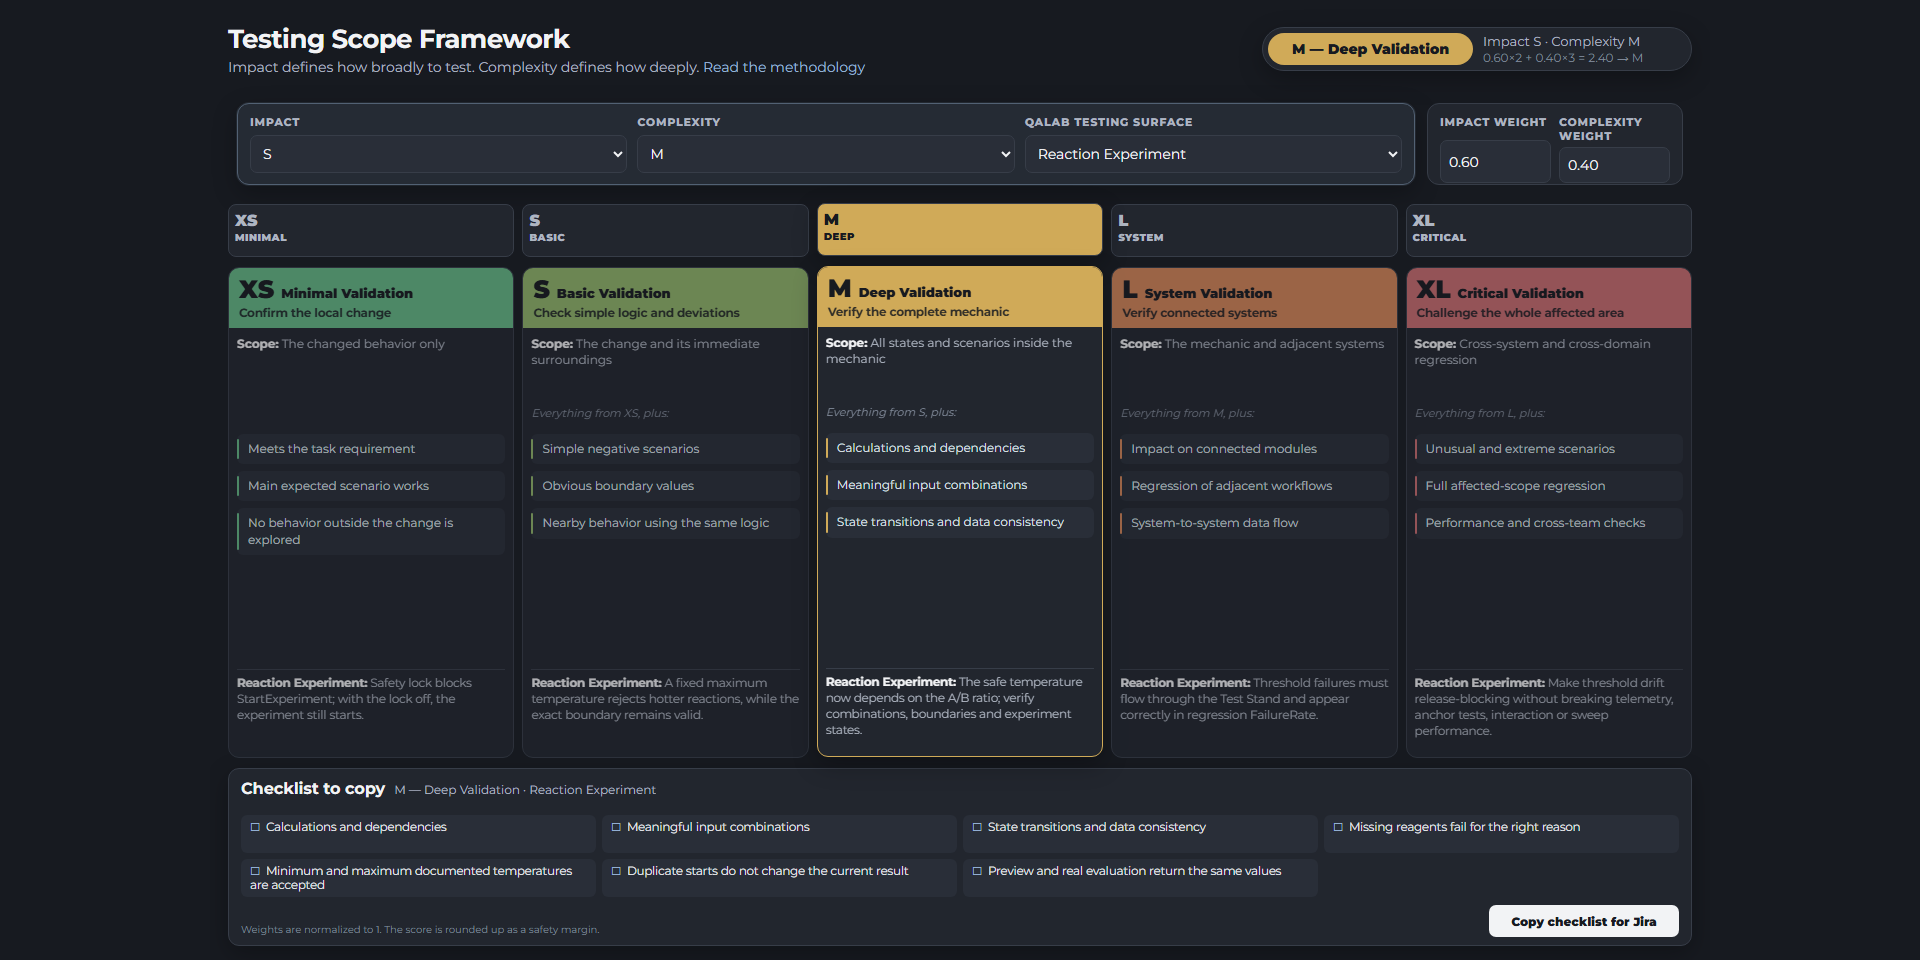
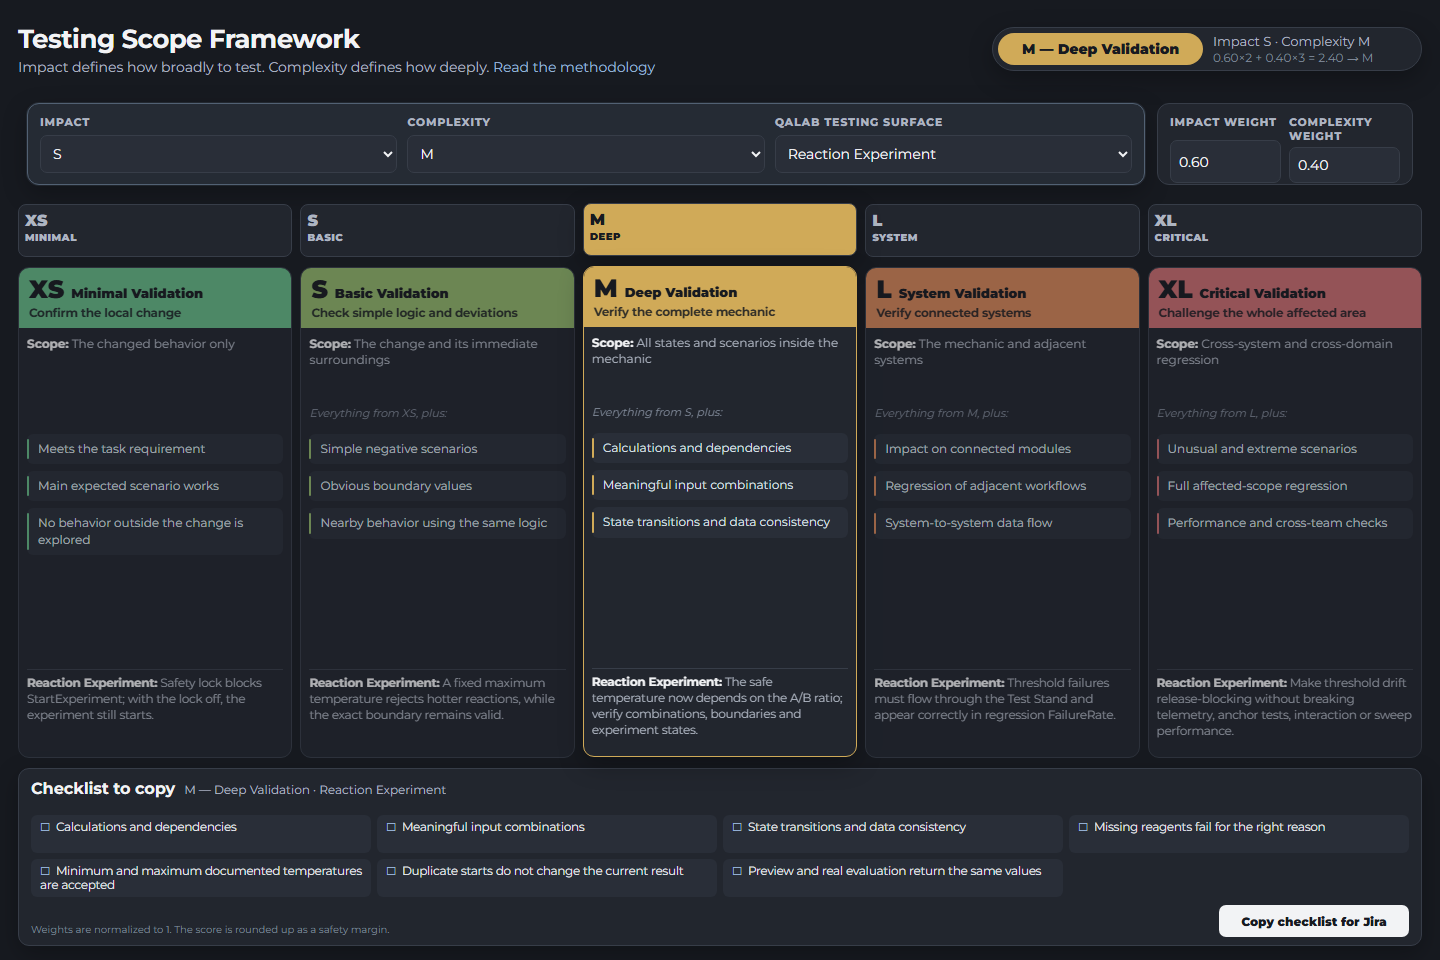
### Changed: README.md

diff --git a/README.md b/README.md
@@ -151,6 +151,8 @@ The full result matrix at the base weights:
 
 [![Testing Scope Framework preview](assets/framework-preview.png)](framework.html)
 
+[Open the framework preview at full size](https://github.com/msgrigorovich/TestingScopeFramework/blob/main/assets/framework-preview.png?raw=true)
+
 [`framework.html`](framework.html) — a self-contained HTML tool (no build step, no dependencies, opens straight in a browser) that implements the formula above:
 
 - pick Impact Analysis and Complexity Dev (XS–XL)
